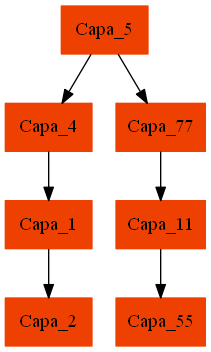
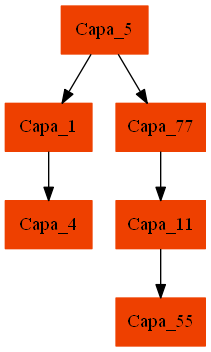
se modifico el avl y el bianrio en el metodo de eliminar

Changed region(s): [[0.0, 0.6875, 0.455, 1.0], [0.3128, 0.625, 0.3697, 0.6562], [0.3128, 0.3438, 0.3697, 0.375]]

diff --git a/[EDD]Proyecto1_201603127/AVL.cpp b/[EDD]Proyecto1_201603127/AVL.cpp
@@ -112,8 +112,8 @@ void AVL::agregar(string nombre) {
 Nodo_Arbol *AVL::mini(Nodo_Arbol *Nodo) {
 	Nodo_Arbol *current = Nodo;
 
-	while (current->izquierda != NULL) {
-		current = current->izquierda;
+	while (current->derecha != NULL) {
+		current = current->derecha;
 	}
 	return current;
 }
@@ -147,9 +147,9 @@ Nodo_Arbol *AVL::eliminar(Nodo_Arbol *Raiz, string nombre) {
 			free(temp);
 		}
 		else {
-			Nodo_Arbol *temp = mini(Raiz->derecha);
+			Nodo_Arbol *temp = mini(Raiz->izquierda);
 			Raiz->nick = temp->nick;
-			Raiz->derecha = eliminar(Raiz->derecha, temp->nick);
+			Raiz->izquierda = eliminar(Raiz->izquierda, temp->nick);
 		}
 	}
 

diff --git a/[EDD]Proyecto1_201603127/Binario.cpp b/[EDD]Proyecto1_201603127/Binario.cpp
@@ -30,8 +30,8 @@ Nodo_ABB *minValue(Nodo_ABB *nodo)
 {
 	Nodo_ABB *current = nodo;
 
-	while (current && current->izquierda != NULL)
-		current = current->izquierda;
+	while (current && current->derecha != NULL)
+		current = current->derecha;
 
 	return current;
 }
@@ -62,9 +62,9 @@ Nodo_ABB *Binario::eliminar(Nodo_ABB *raiz, int dato) {
 			return temp;
 		}
 
-		Nodo_ABB *temp = minValue(raiz->derecha);
+		Nodo_ABB *temp = minValue(raiz->izquierda);
 		raiz->id = temp->id;
-		raiz->derecha = eliminar(raiz->derecha, temp->id);
+		raiz->izquierda = eliminar(raiz->izquierda, temp->id);
 	}
 
 		return raiz;

diff --git a/[EDD]Proyecto1_201603127/main.cpp b/[EDD]Proyecto1_201603127/main.cpp
@@ -163,7 +163,7 @@ int main() {
 	//Arbol_Capas.graficar();
 
 	Arbol_Capas.elim(3);
-	Arbol_Capas.add(2);
+
 	Arbol_Capas.graficar();
 	
 	system("pause");
